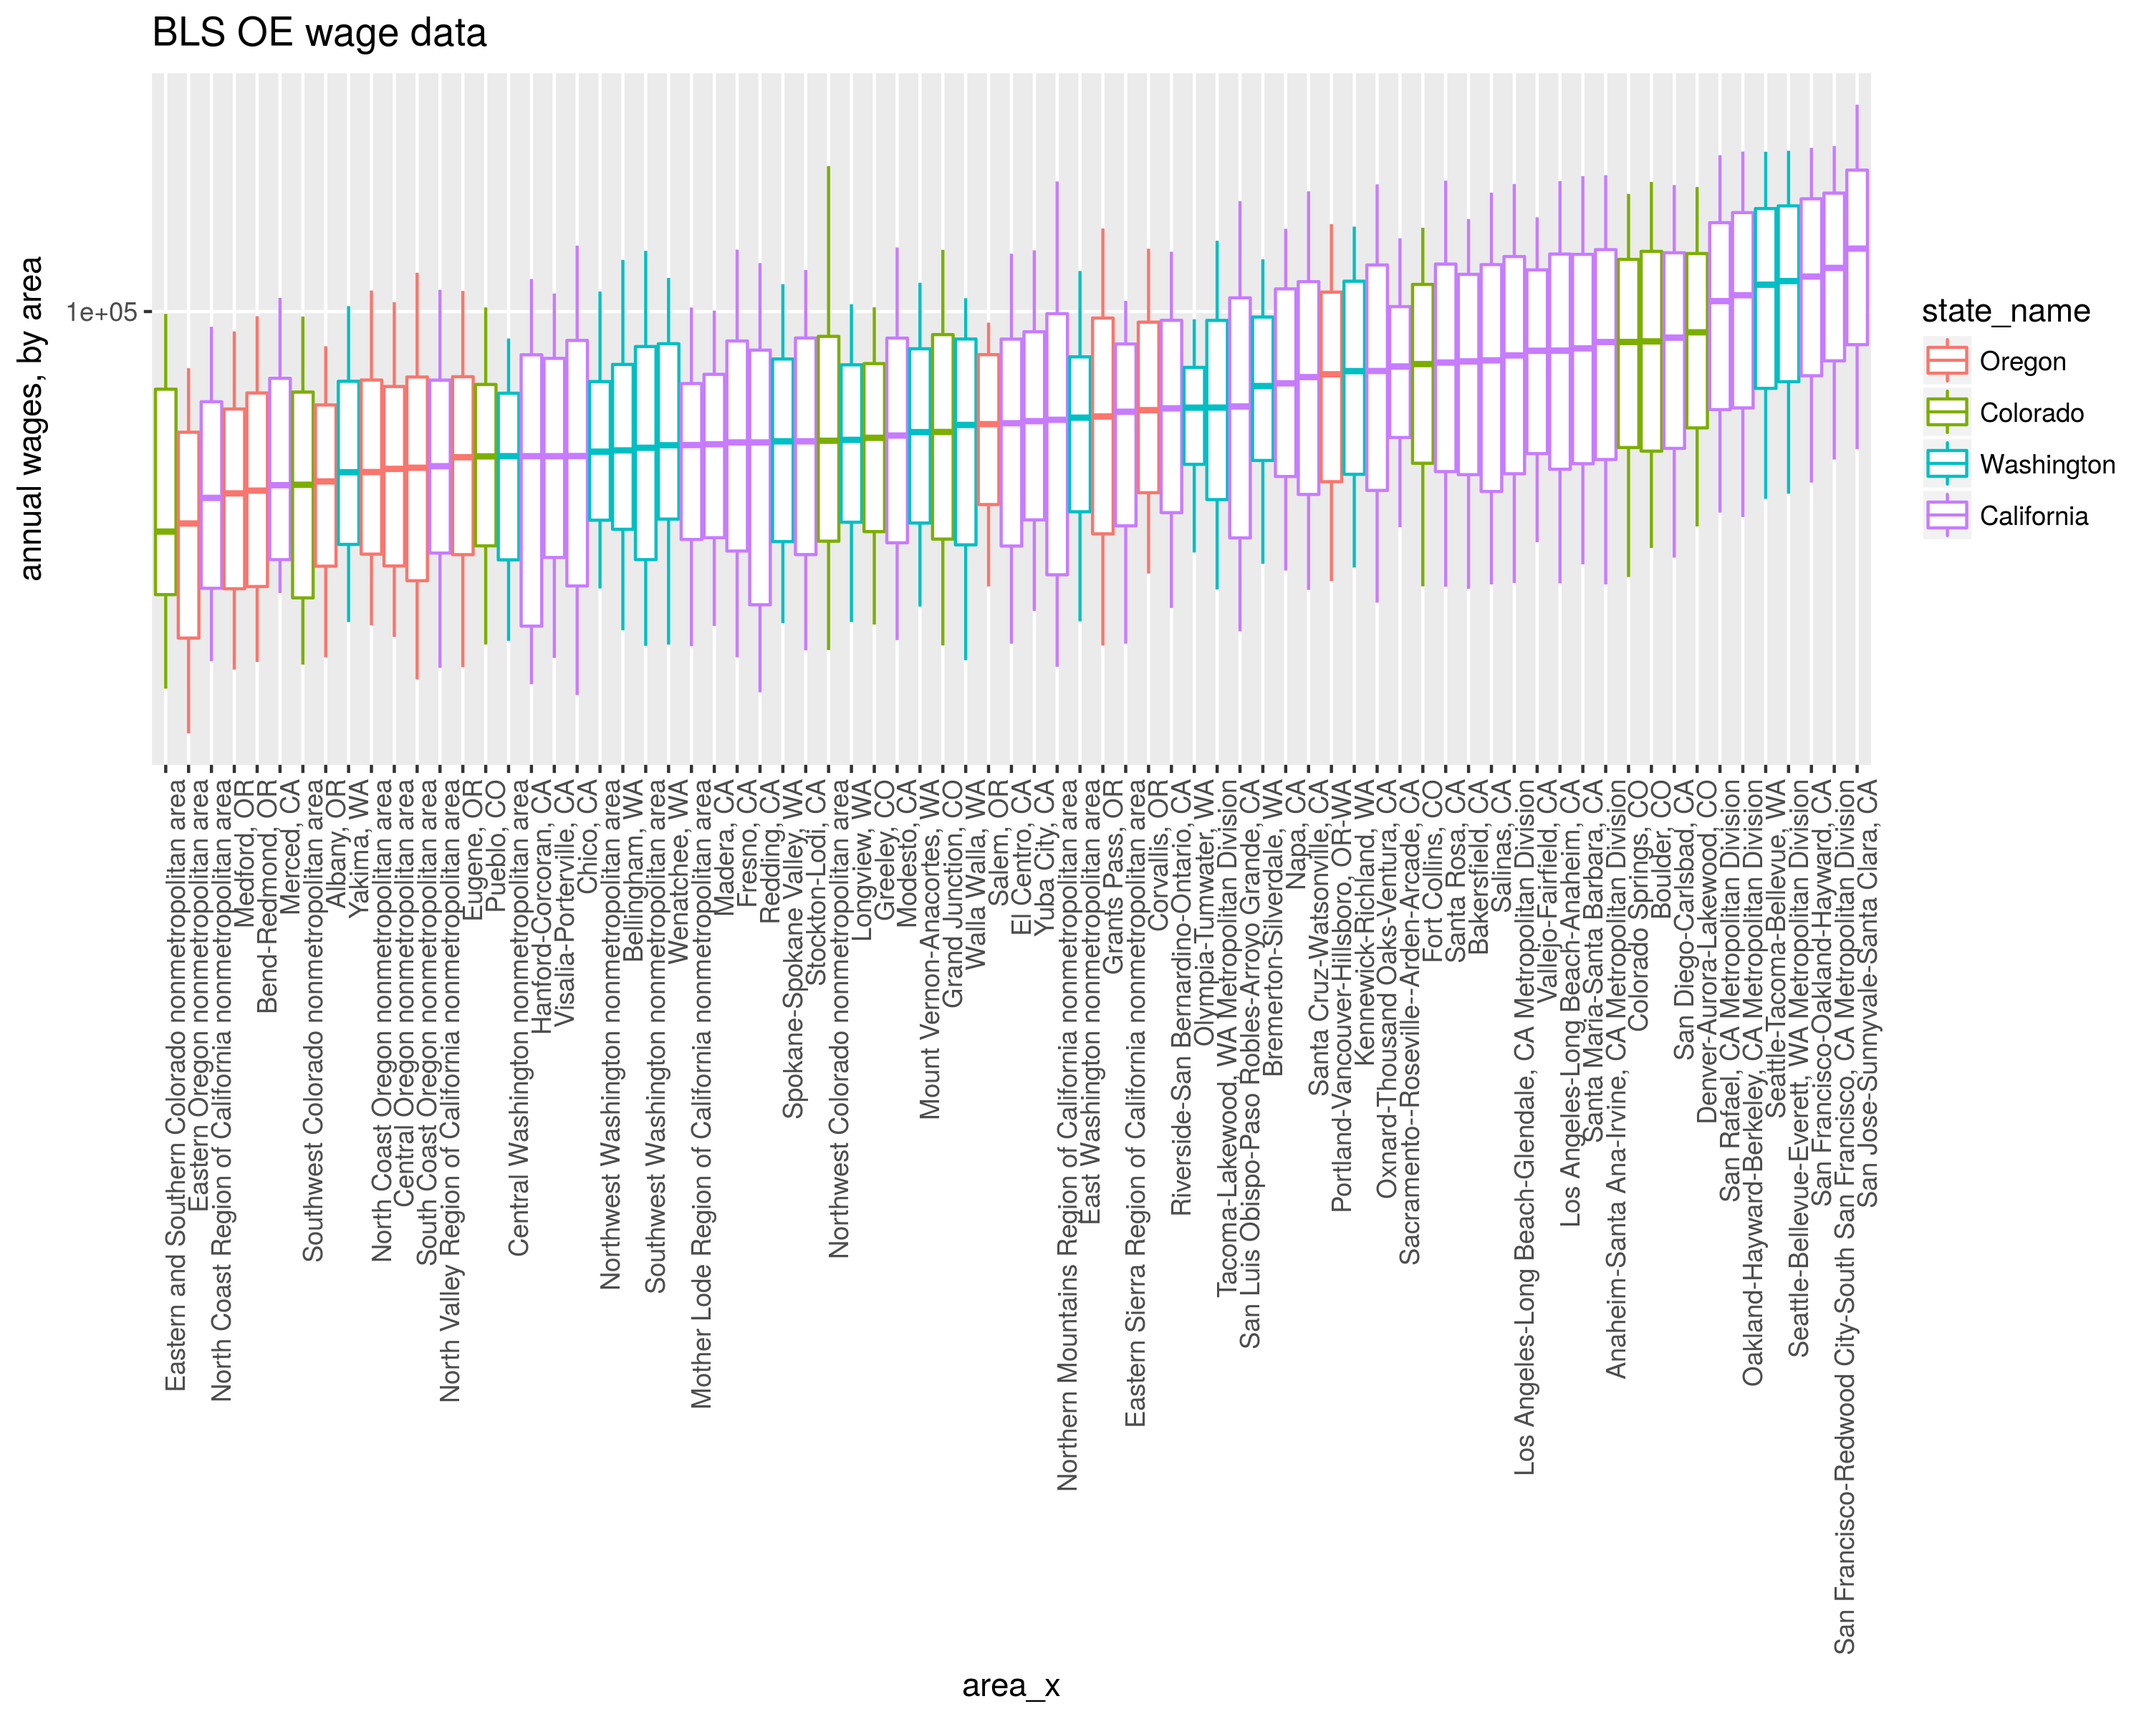
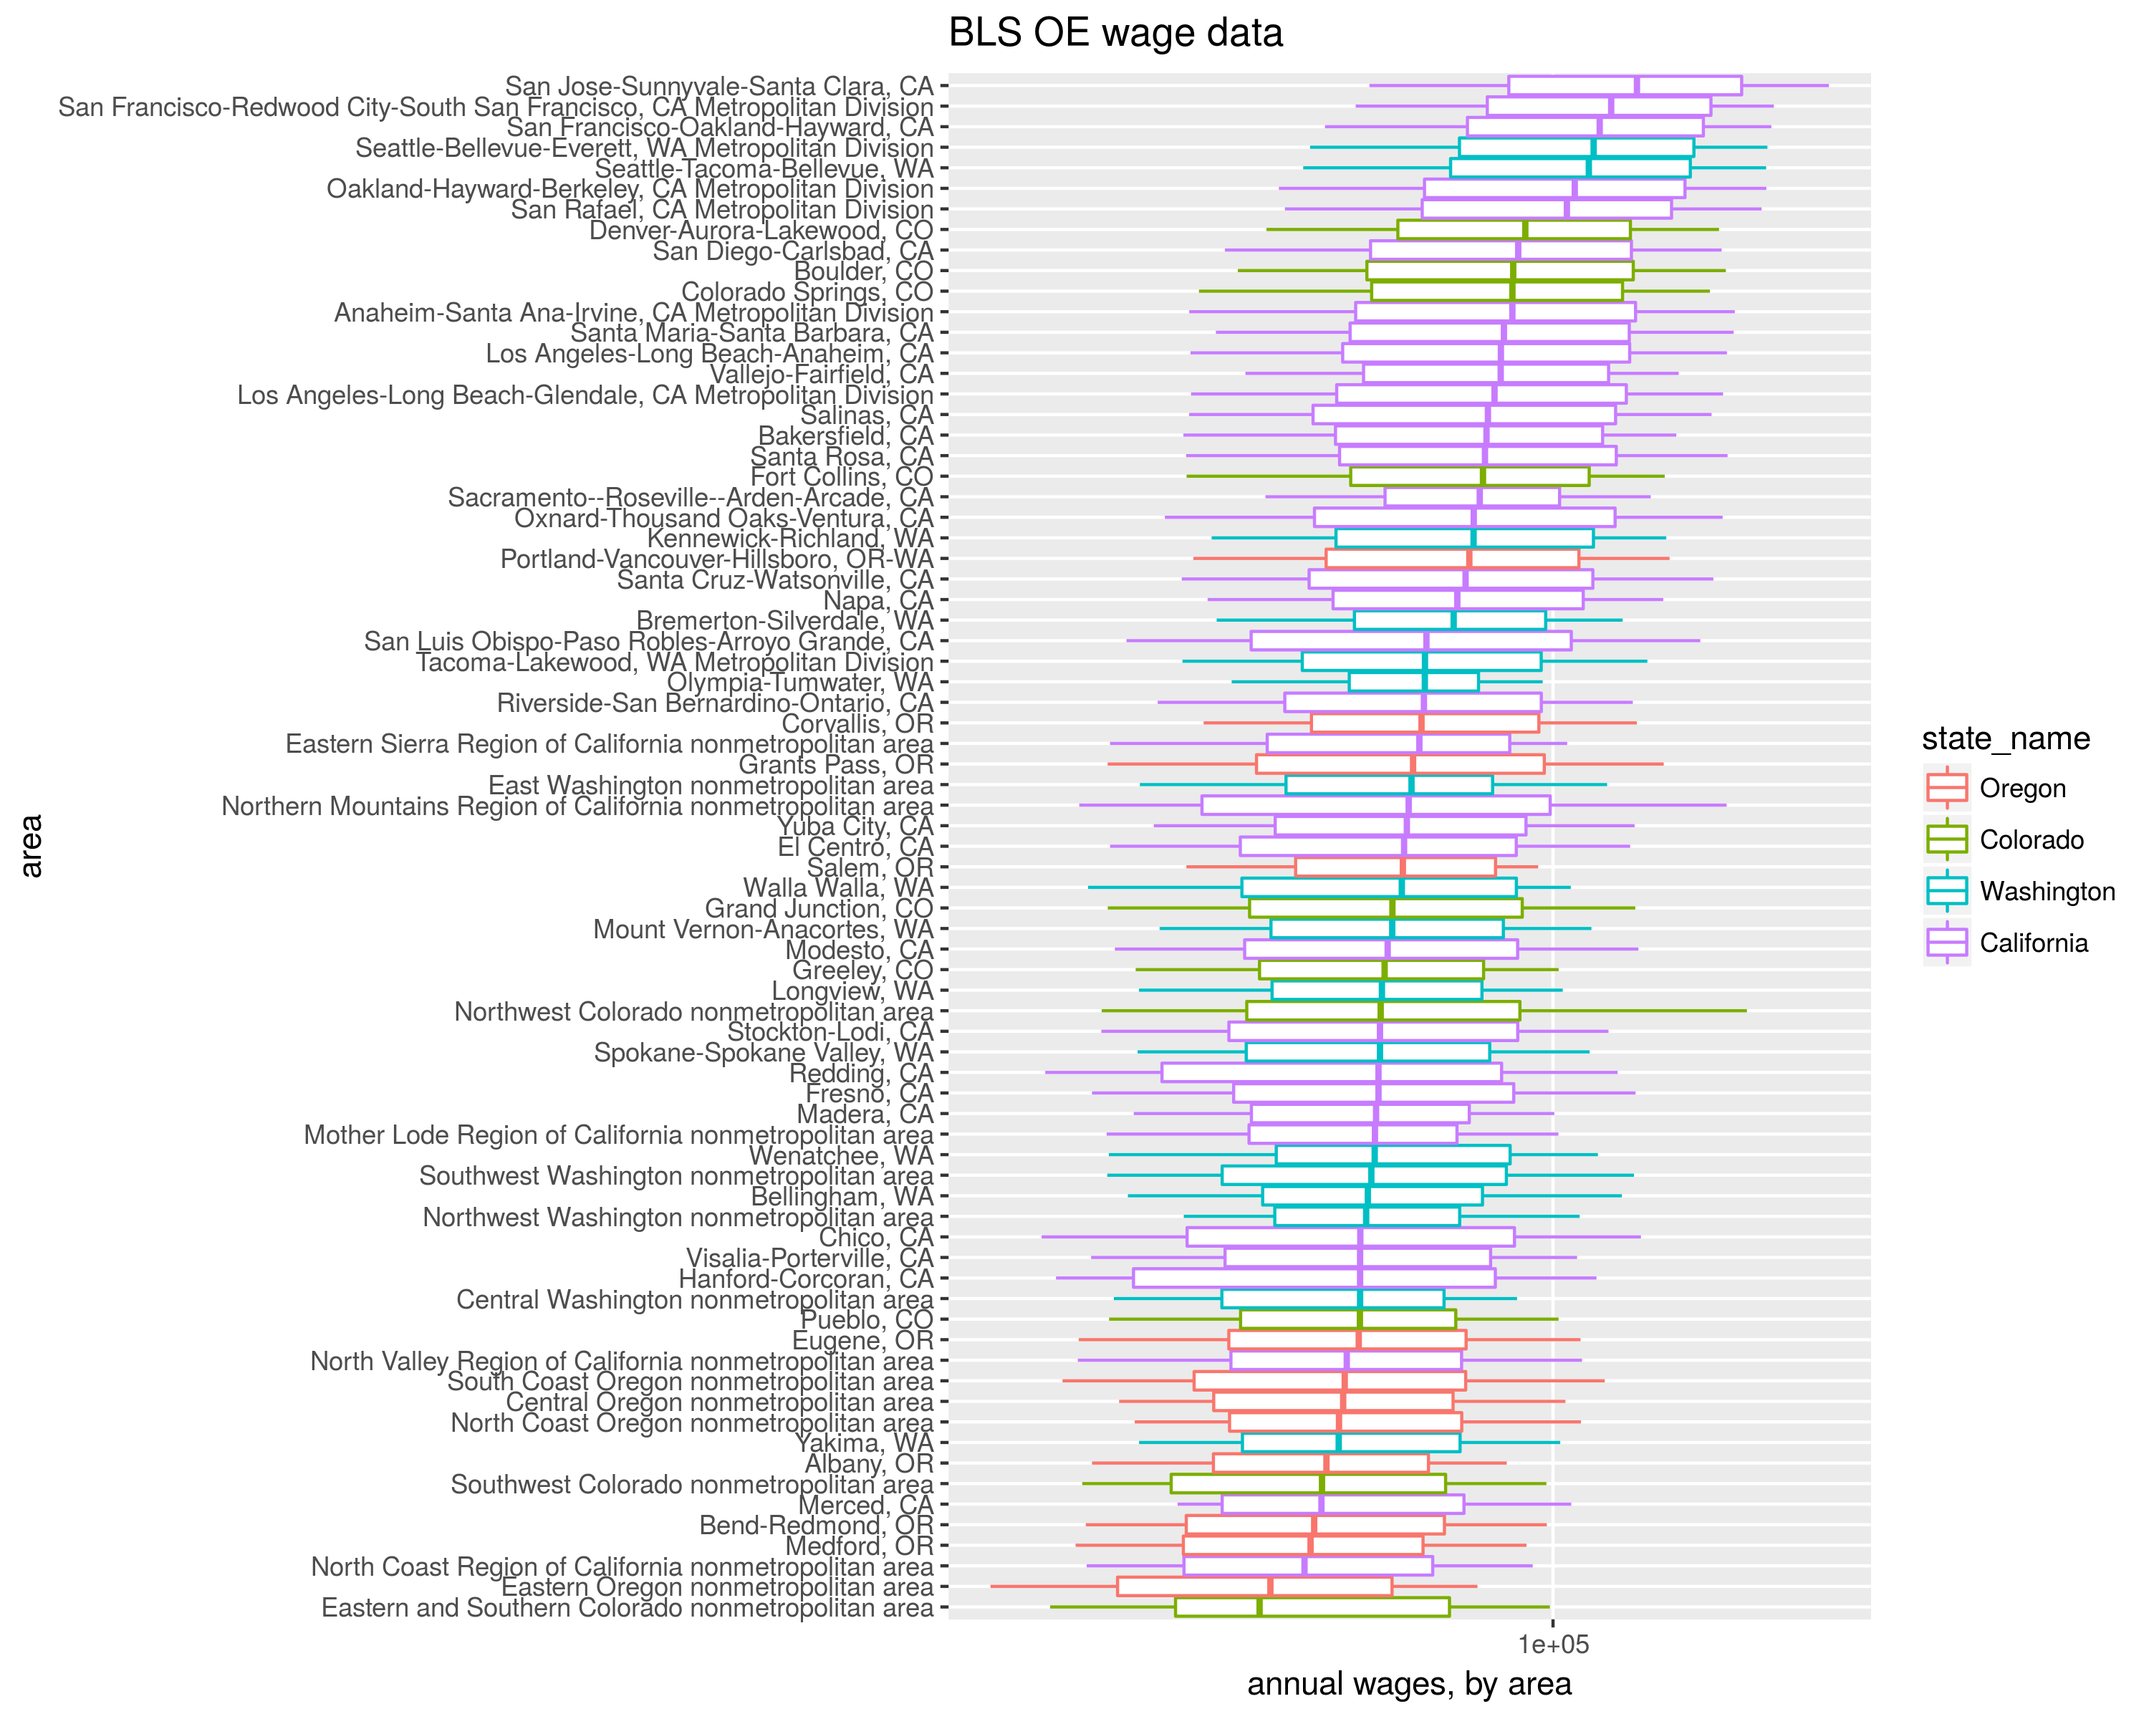
flip coords and such

diff --git a/README.md b/README.md
@@ -59,8 +59,8 @@ ph <- nerds %>% inner_join(mystates %>% select(state_code,
     lower = annual_wage_qtile_25, ymax = annual_wage_qtile_90, 
     ymin = annual_wage_qtile_10, color = state_name)) + 
     geom_boxplot(stat = "identity") + scale_y_log10() + 
-    theme(axis.text.x = element_text(angle = 90, hjust = 1)) + 
-    labs(y = "annual wages, by area", title = "BLS OE wage data")
+    coord_flip() + labs(x = "area", y = "annual wages, by area", 
+    title = "BLS OE wage data")
 print(ph)
 ```
 
@@ -82,7 +82,7 @@ ph <- emply %>% inner_join(mystates %>% select(state_code,
     Employment)) %>% mutate(state_name = forcats::fct_reorder(factor(state_name), 
     Employment)) %>% ggplot(aes(area_x, Employment, 
     color = state_name)) + geom_point() + scale_y_log10() + 
-    coord_flip() + labs(y = "Employment, by area", 
+    coord_flip() + labs(x = "area", y = "Employment, by area", 
     title = "BLS OE wage data")
 print(ph)
 ```
